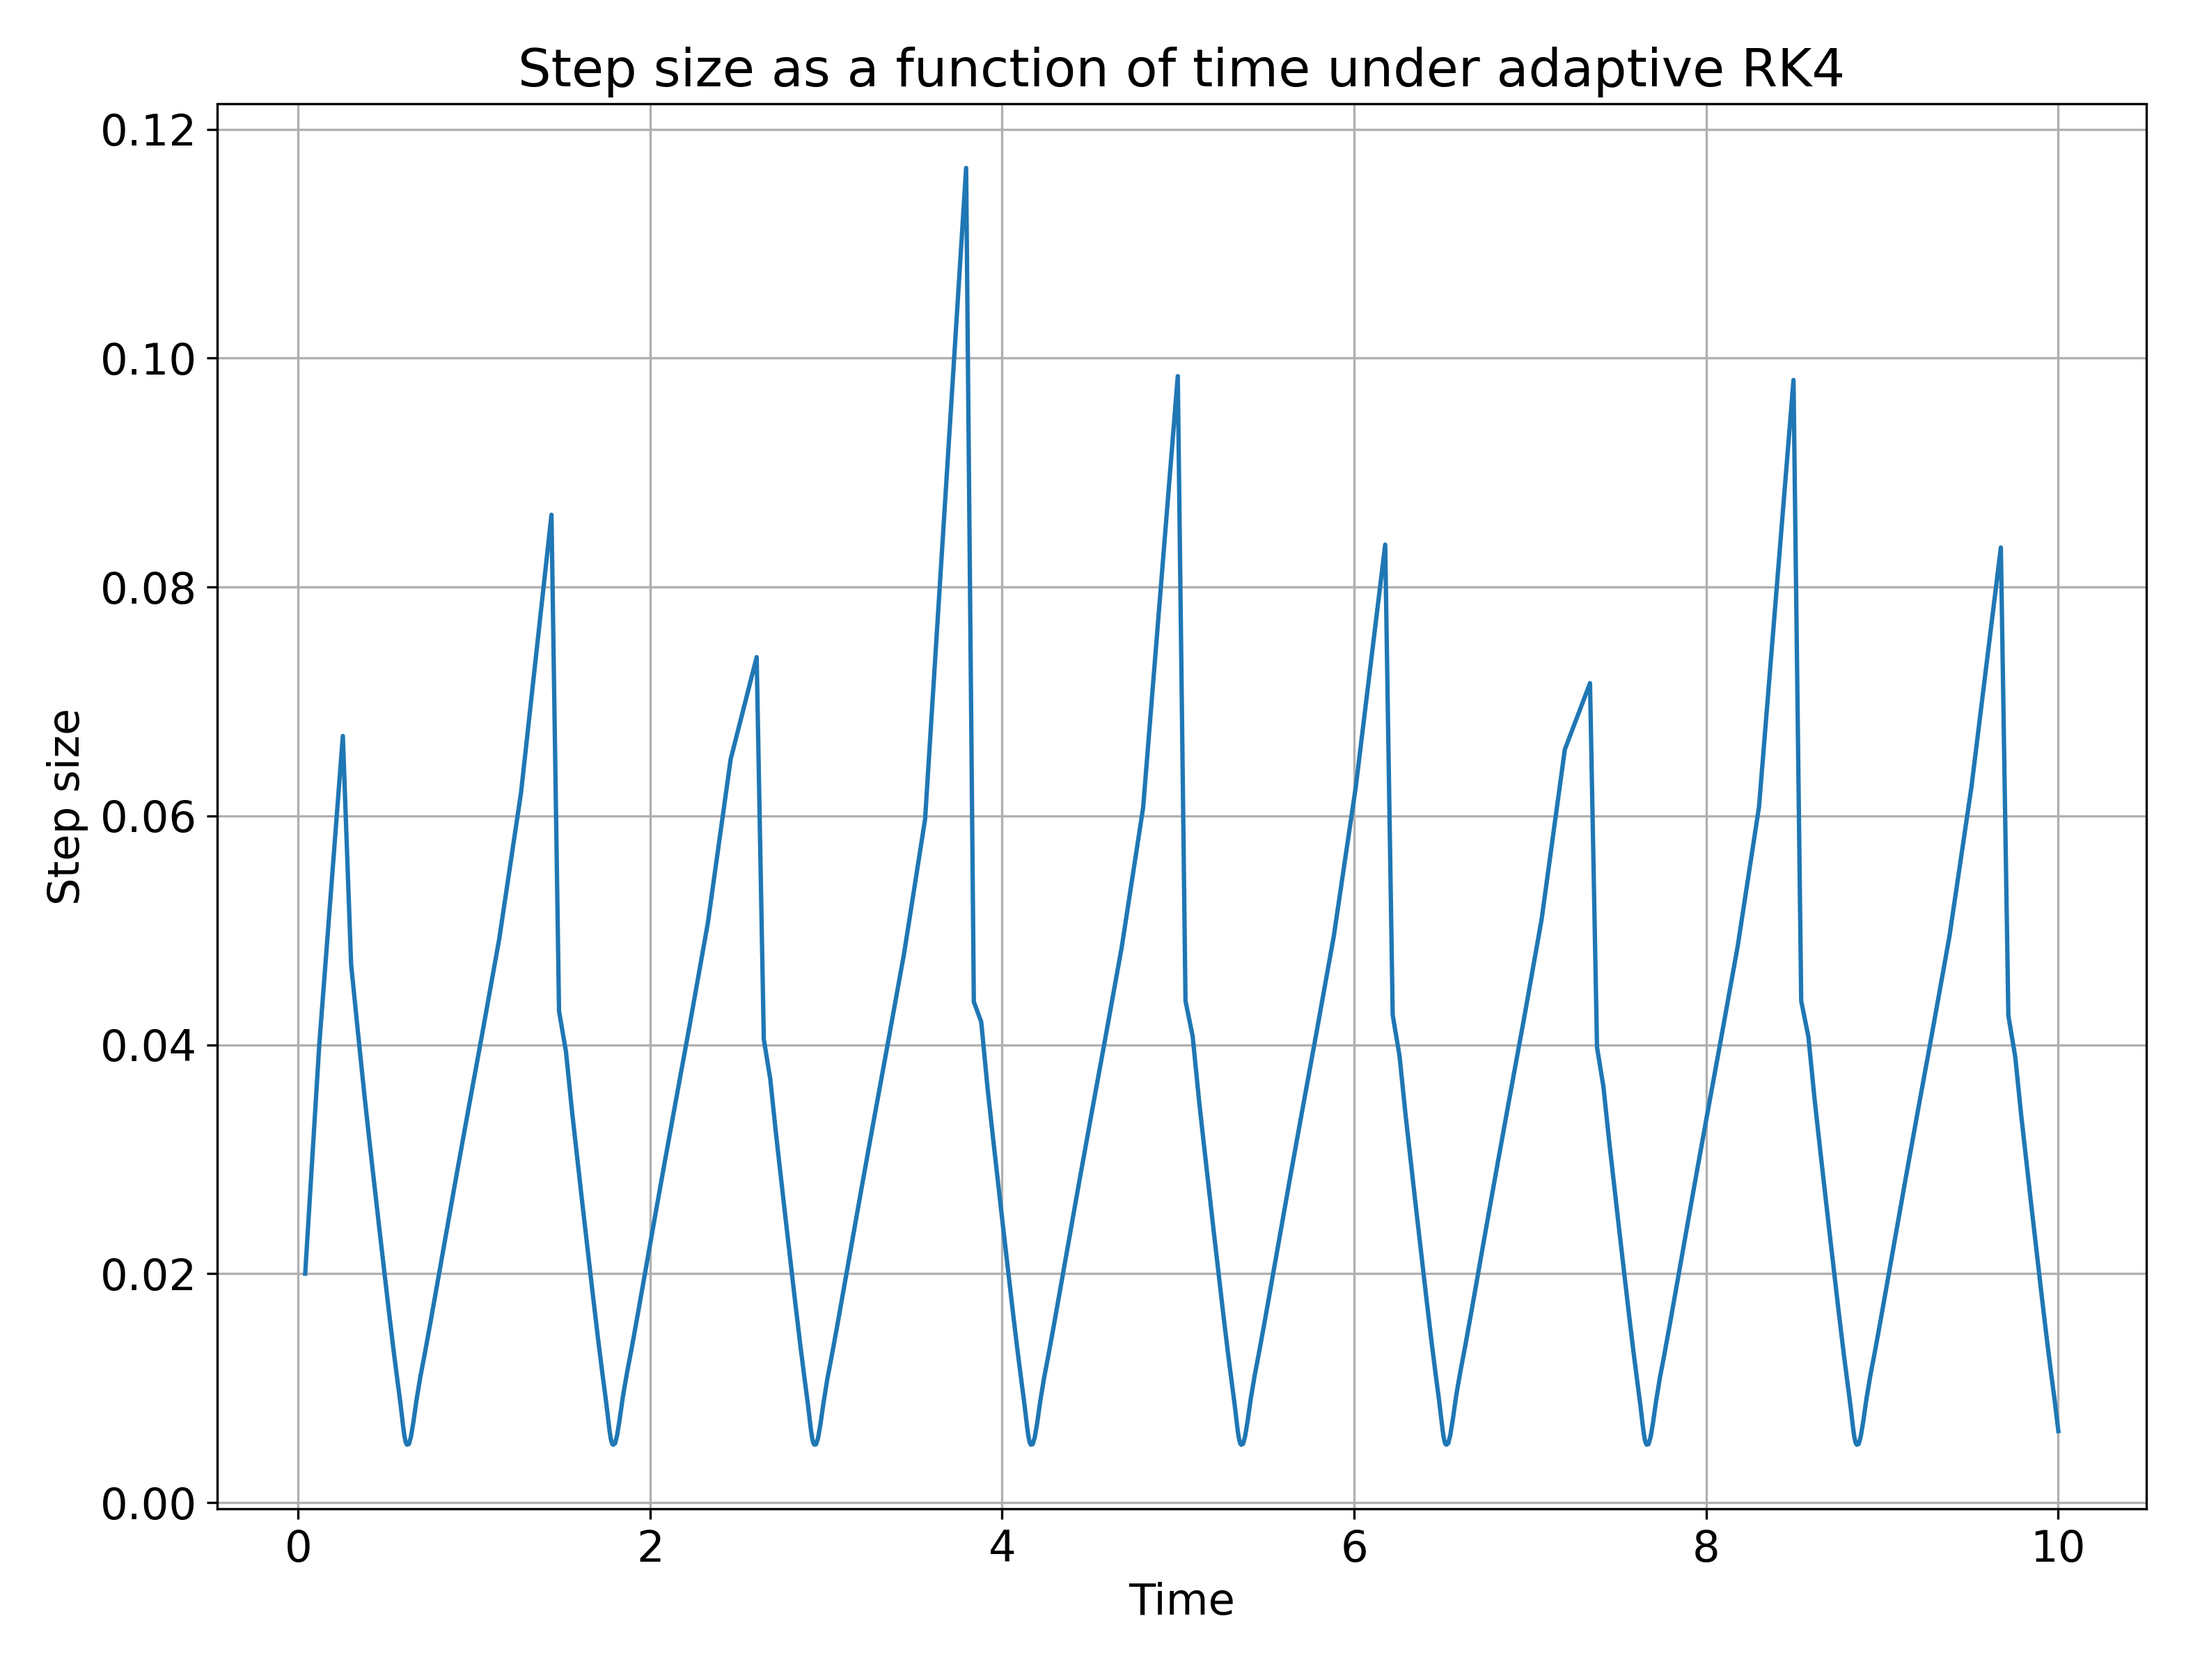
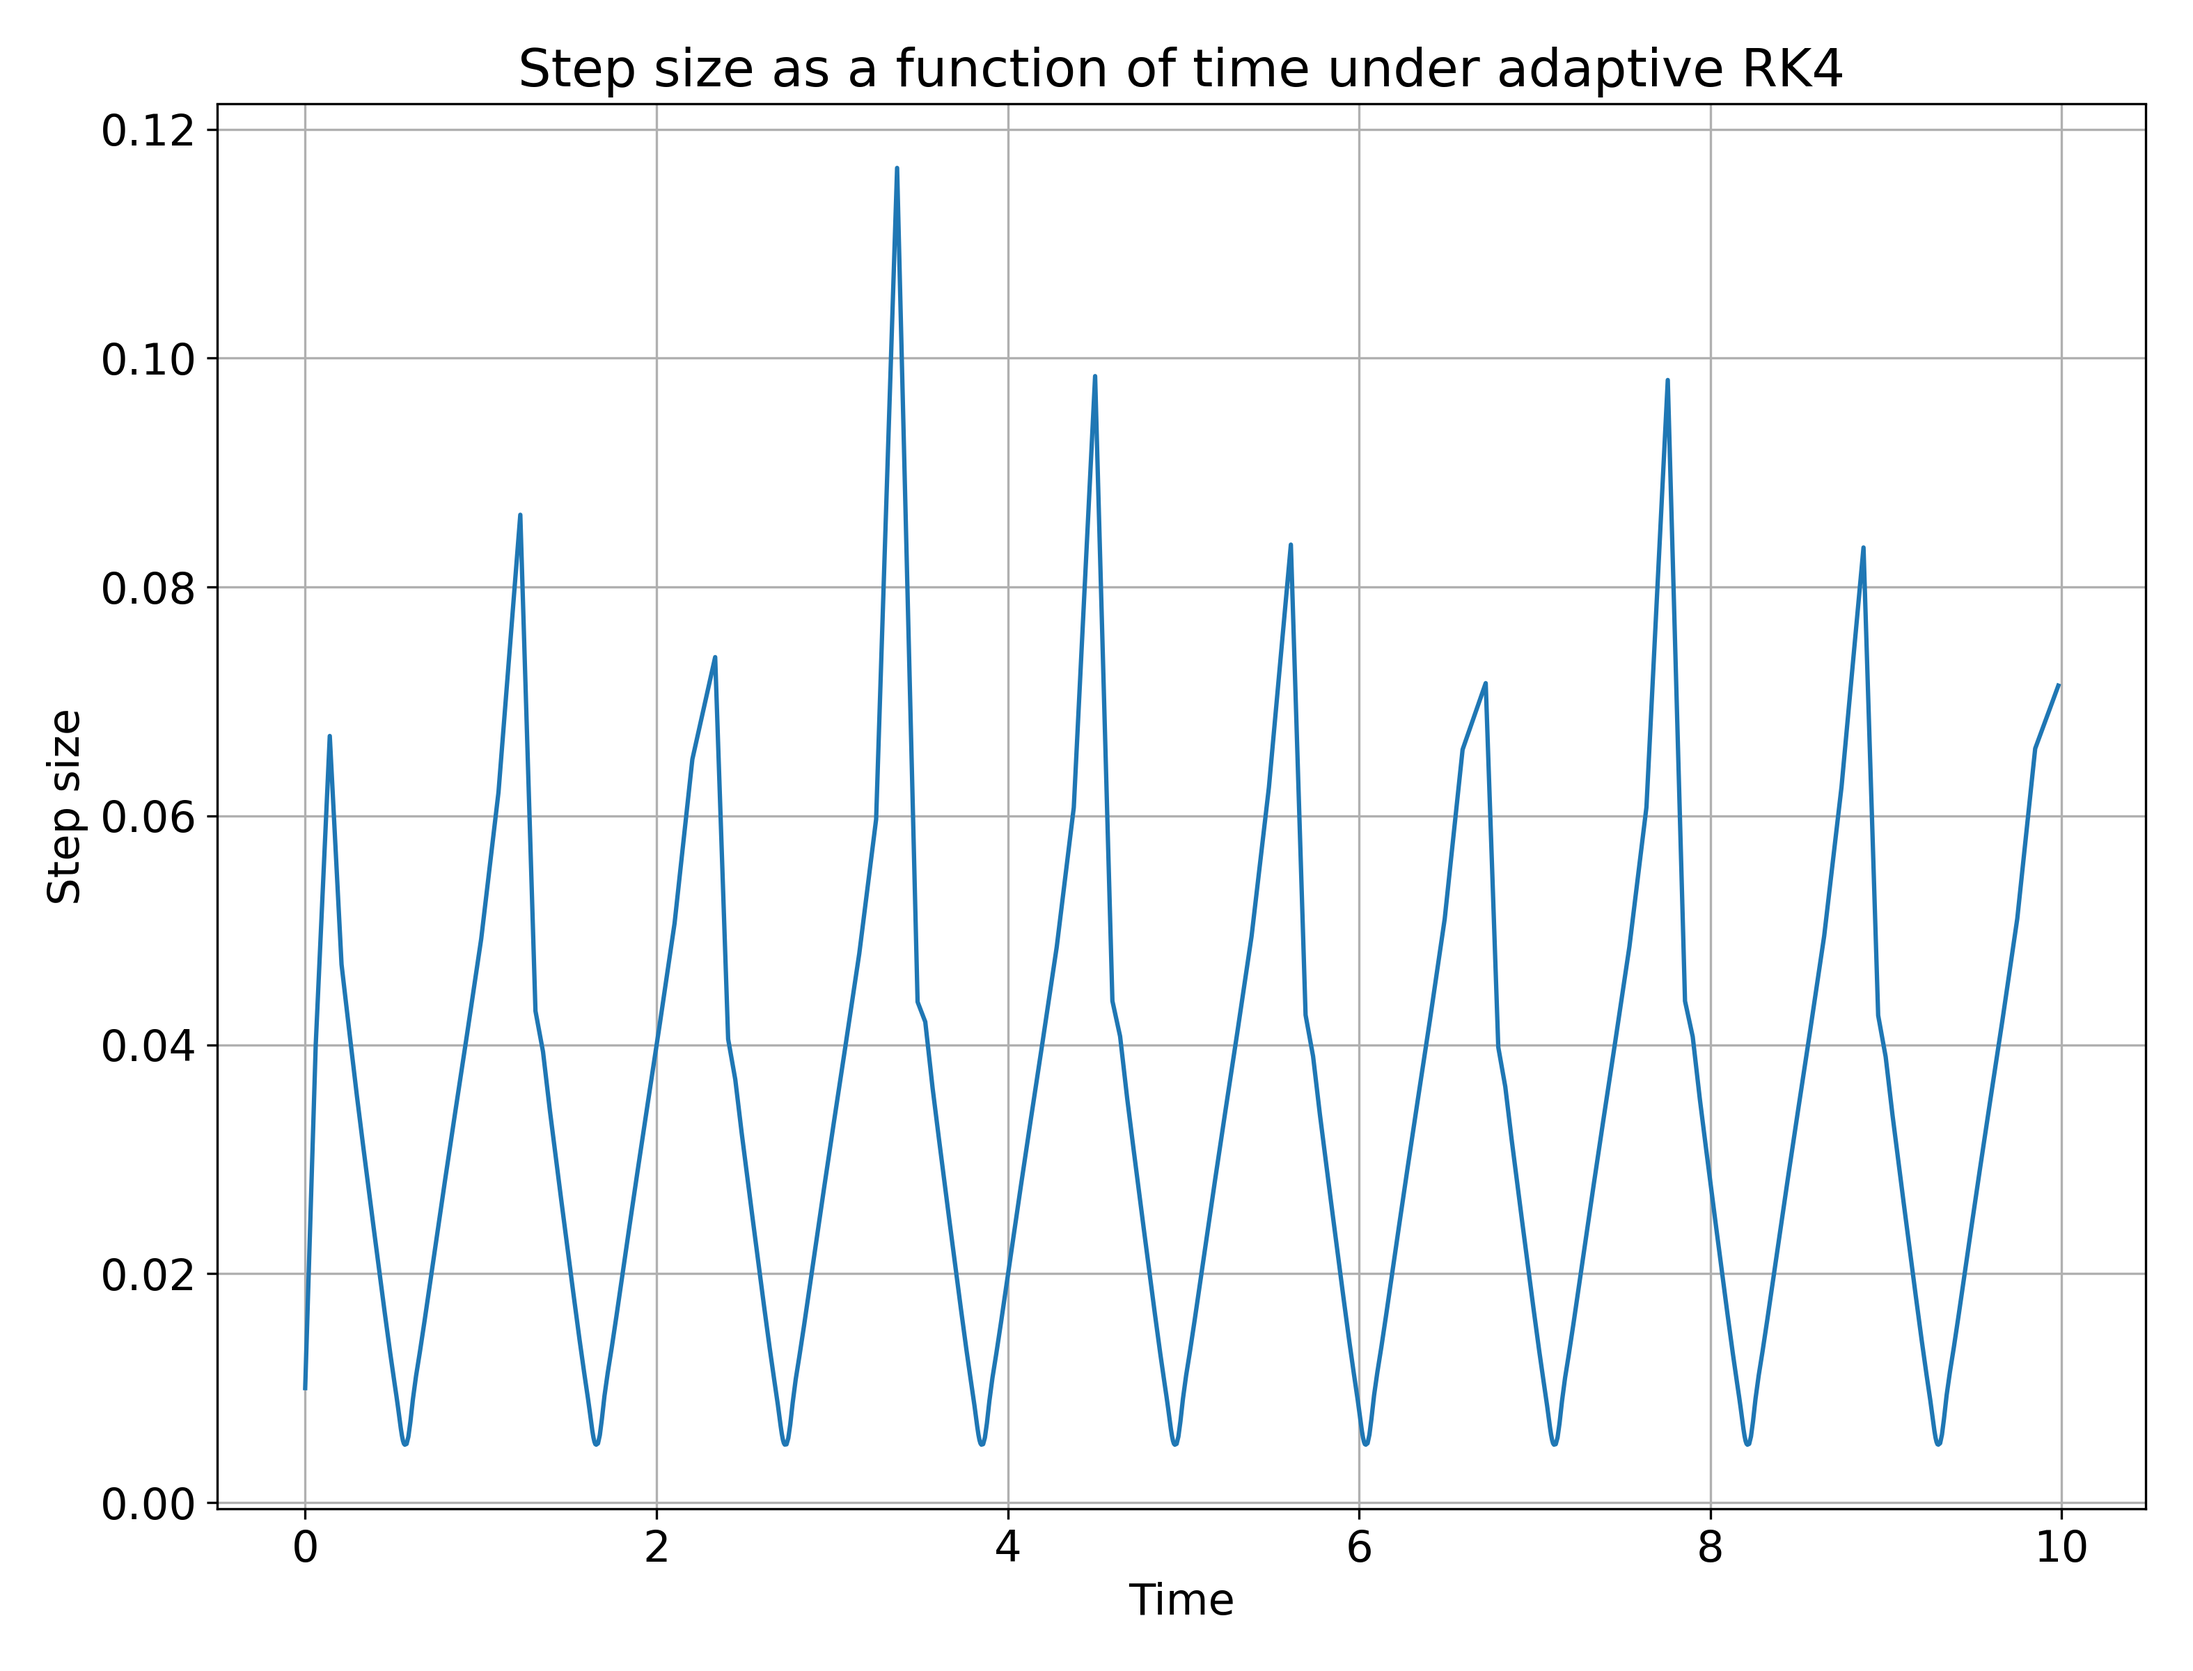
Fixed issue with how time is calculated and stored in the adaptive RK4 algorithm.

diff --git a/Week07/Lab07_Q01.py b/Week07/Lab07_Q01.py
@@ -40,9 +40,9 @@ Outputs:
 #
 # Define function for adaptive RK4 algorithm:
 #     Set target error, integration times, initial conditions, equation of motion and starting step size, h
-#     Set empty time list
-#     Set empty step size list
-#     Set empty results list (entries formatted as (x, v_x, y, v_y))
+#     Set time list with starting time
+#     Set step size list with starting step size
+#     Set results list (entries formatted as (x, v_x, y, v_y)) with initial conditions
 #     Set time as integration start time
 #     Initialize conditions array as initial conditions
 #
@@ -54,6 +54,9 @@ Outputs:
 #         Calculate rho according to equation 4 from lab handout
 #
 #         If rho >= 1:
+#             Add 2 * [current step size] to time
+#             Append time to time list
+#
 #             If rho > 1:
 #                 Calculate increased step size according to Eq. 8.52 from Computational Physics
 #                 If increased step size is not greater than 2 * [current step size]:
@@ -61,21 +64,20 @@ Outputs:
 #                 Otherwise:
 #                     Set 2 * [current step size] as step size
 #
-#             Add 2 * [current step size] to time
 #             Set conditions as those from two h steps
 #             Append conditions to results list
-#             Append time to time list
 #             Append current step size to step size list
 #
 #         Otherwise (if rho < 1):
+#             Add step size to time
+#             Append time to time list
+#
 #             Calculate smaller step size according to Eq. 8.52 from Computational Physics
 #             Set current step size as this smaller step size
 #             Calculate step of RK4 method with previously defined function
 #
-#             Add step size to time
 #             Set conditions as those RK4 step
 #             Append conditions to results list
-#             Append time to time list
 #             Append current step size to step size list
 #
 # Define function for non-adaptive RK4 algorithm
@@ -144,7 +146,7 @@ def seperated_equations(conditions):
 
 def rk4_step(step_quantity, step_size, starting_conditions, function):
     """
-    See pseudo-code (lines 28-32). Adapted from Newman_8-8.py by Nico Grisouard.
+    See pseudo-code (lines 28-39). Adapted from Newman_8-8.py by Nico Grisouard.
     """
     k1 = step_size * function(starting_conditions)  # all the k's are vectors
     k2 = step_size * function(starting_conditions + 0.5 * k1)  # note: no explicit dependence on time of the RHSs
@@ -163,13 +165,13 @@ def rk4_step(step_quantity, step_size, starting_conditions, function):
 
 def adaptive_rk4(t_0, t_final, step_size, initial_conditions, target_error, function):
     """
-    See pseudo-code (lines 41-79).
+    See pseudo-code (lines 41-81).
     """
     conditions = initial_conditions
     t = t_0
-    time = list()
-    results = list()
-    step_sizes = list()
+    time = [t_0]
+    results = [conditions]
+    step_sizes = [step_size]
 
     while t < t_final:
         # Do two steps of step_size and one of 2 * step_size, find the error in each, then compute rho
@@ -180,6 +182,8 @@ def adaptive_rk4(t_0, t_final, step_size, initial_conditions, target_error, func
         rho = (step_size * target_error) / sqrt(error_x ** 2 + error_y ** 2)
 
         if rho >= 1:  # Desired accuracy achieved. Append results.
+            t += 2 * step_size
+            time.append(t)
 
             if rho > 1:  # Step size can be increased
                 # Compute new step size. If it meets the condition to avoid divergence, set it as the step size
@@ -192,30 +196,28 @@ def adaptive_rk4(t_0, t_final, step_size, initial_conditions, target_error, func
                 else:
                     step_size = new_step_size
 
-            t += 2 * step_size
             conditions = two_steps
 
-            time.append(t)
             results.append(two_steps)
             step_sizes.append(step_size)
 
             continue
 
         elif rho < 1:  # Desired accuracy not achieved. Do step with required step_size
+            t += step_size
+            time.append(t)
+
             new_step_size = step_size * (rho ** 0.25)
             step_size = new_step_size
             new_conditions = rk4_step(1, step_size, conditions, function)
 
-            t += step_size
             conditions = new_conditions
-
-            time.append(t)
             results.append(new_conditions)
             step_sizes.append(step_size)
 
             continue
 
-    return np.array(time), np.array(results), np.array(step_sizes)
+    return np.array(time[:-1]), np.array(results[:-1]), np.array(step_sizes[:-1])
 
 
 # ============ NON-ADAPTIVE RK4 ========================================================================================
@@ -224,7 +226,7 @@ def adaptive_rk4(t_0, t_final, step_size, initial_conditions, target_error, func
 # the format (x, v_x, y, v_y) for each time step.
 def non_adaptive_rk4(t_0, t_final, step_size, initial_conditions, function):
     """
-    See pseudo-code (lines 81-85). Adapted from Newman_8-8.py by Nico Grisouard.
+    See pseudo-code (lines 83-87). Adapted from Newman_8-8.py by Nico Grisouard.
     """
     time = np.arange(t_0, t_final, step_size)
     conditions = initial_conditions
@@ -247,10 +249,6 @@ adaptive_start = perf_counter()
 adaptive_time, adaptive_conditions, step_sizes = adaptive_rk4(t_0, t_final, 0.01, initial_conditions, delta,
                                                               seperated_equations)
 adaptive_end = perf_counter()
-
-
-print(len(adaptive_time))
-print(len(non_adaptive_time))
 
 # ============ QUESTION 1A =============================================================================================
 print('============ QUESTION 1A ======================================================================================')
